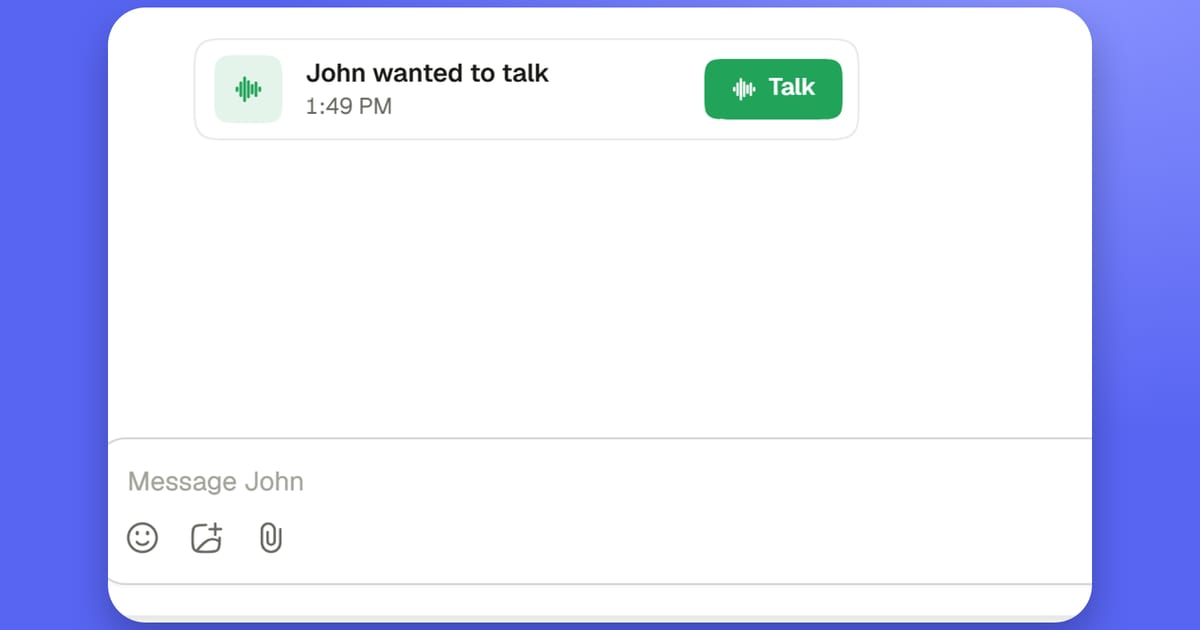
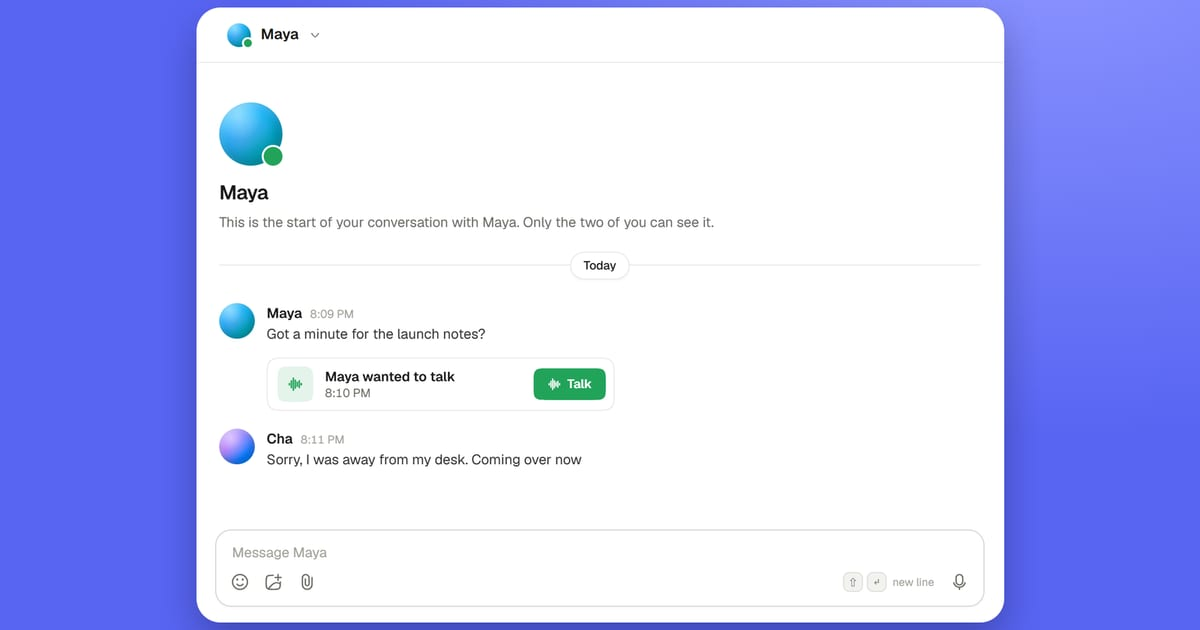
A clearer picture of a talk card in direct messages

diff --git a/marketing-frontend/src/lib/changelog.ts b/marketing-frontend/src/lib/changelog.ts
@@ -117,7 +117,7 @@ const ENTRIES: ChangelogEntry[] = [
         paragraphs: [
           "Every ask also goes into your direct messages with that person, as a small card instead of words. If they missed it, it reads \"wanted to talk\" with a Talk button, which asks you back as soon as you're both on the floor; you see \"You asked to talk\".",
         ],
-        image: { name: "talk-card", alt: "A card in TinyFloor's direct messages: \"John wanted to talk\", 1:49 PM, with a green Talk button" },
+        image: { name: "talk-card", alt: "Direct messages between Maya and Cha on TinyFloor: Maya asks for a minute, a card reads \"Maya wanted to talk\" with a green Talk button, and Cha replies that she's coming over" },
       },
     ],
     also: [
